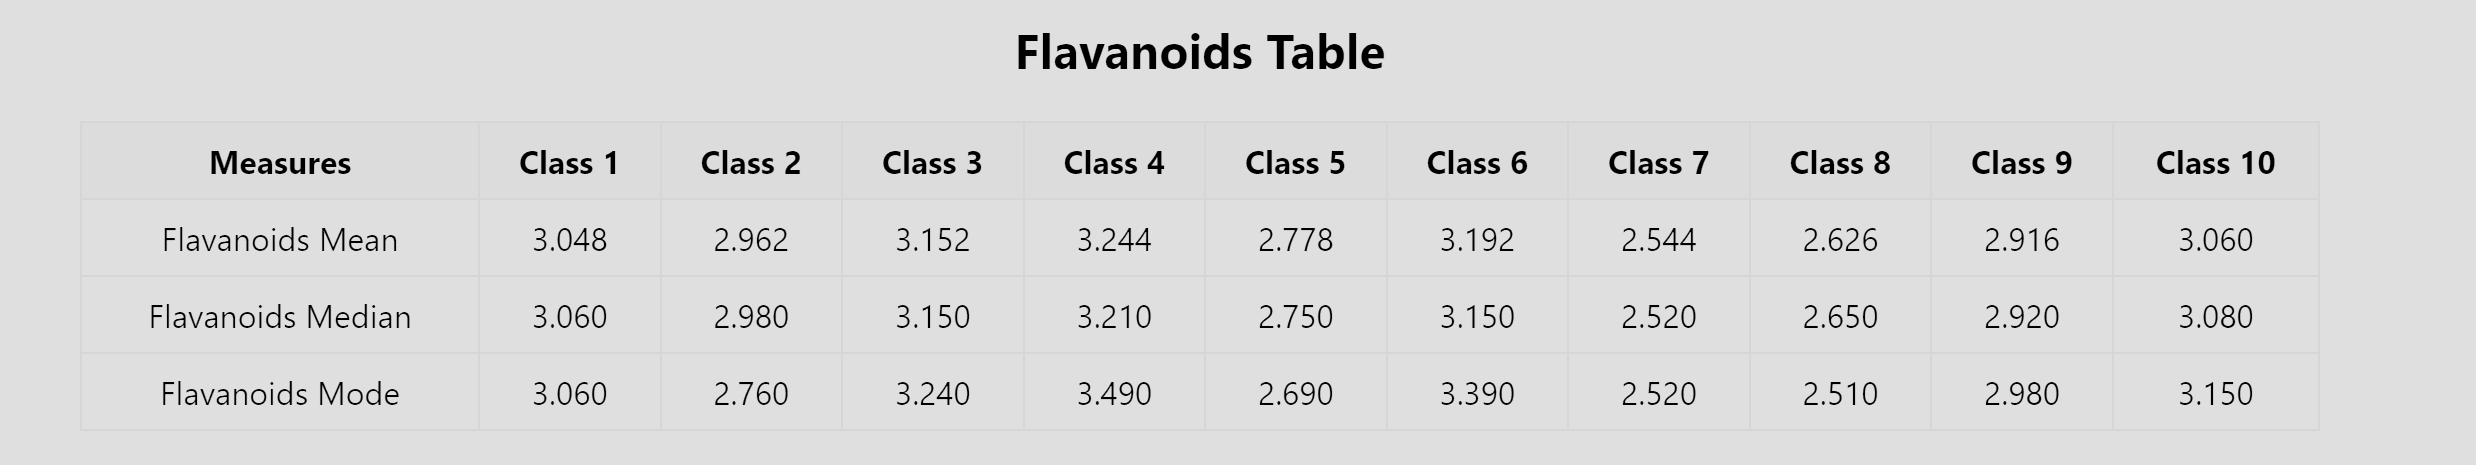
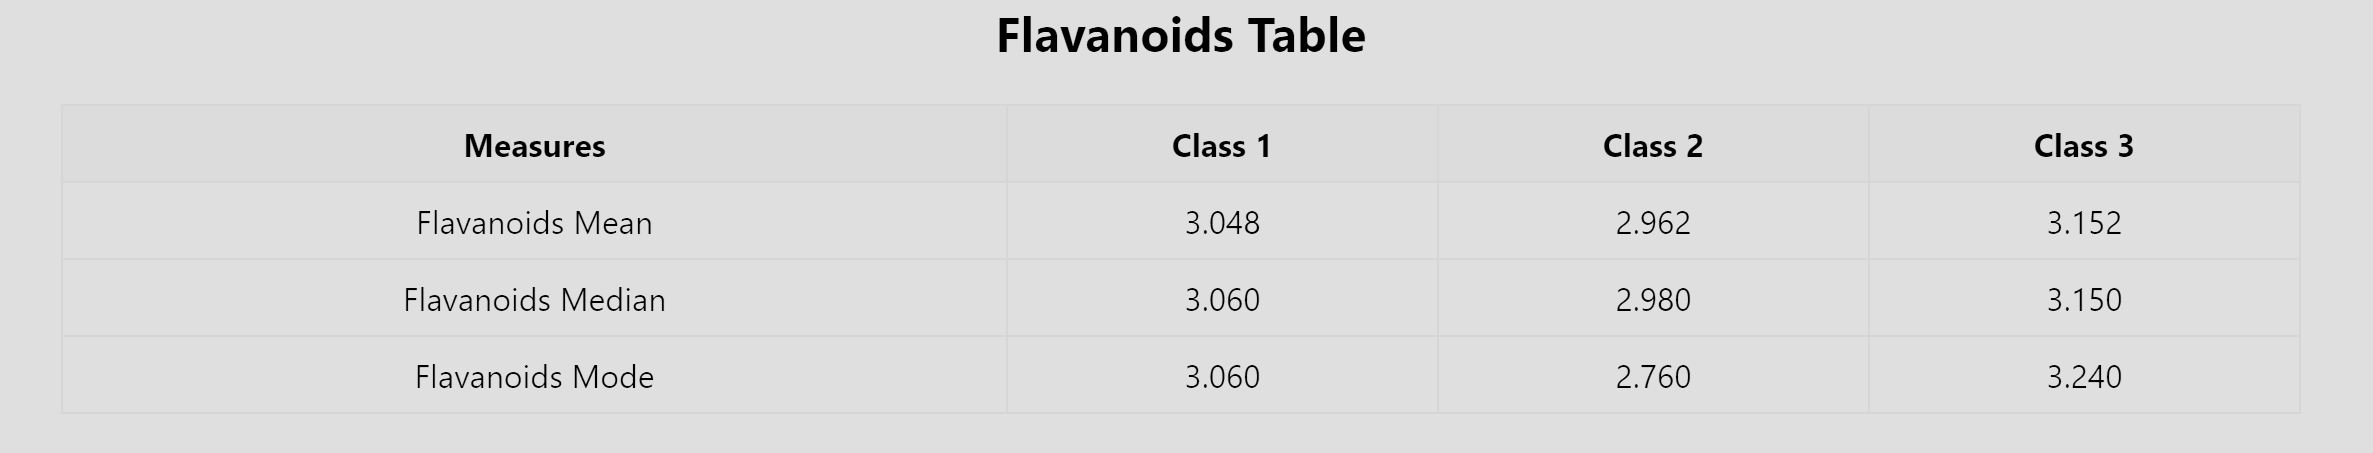
Adding all changes to wine assignment

diff --git a/src/data.js b/src/data.js
@@ -50,123 +50,123 @@ export const wineData = [
     "OD": 3.17,
     "Proline": 1185
   },
-  {
-    "id": "4",
-    "Wine": 4,
-    "Alcohol": 14.37,
-    "Malic.acid": 1.95,
-    "Ash": [2.5, 2.87, 2.45, 2.45, 2.61],
-    "Acl": 16.8,
-    "Mg": [113, 118, 112, 96, 121],
-    "Phenols": 3.85,
-    "Flavanoids": [3.49, 3.02, 3.21, 3.15, 3.35],
-    "Nonflavanoid.phenols": 0.24,
-    "Proanth": 2.18,
-    "Color.int": 7.8,
-    "Hue": [0.86, 1.04, 1.05, 1.02, 1.06],
-    "OD": 3.45,
-    "Proline": 1480
-  },
-  {
-    "id": "5",
-    "Wine": 5,
-    "Alcohol": 13.24,
-    "Malic.acid": 2.59,
-    "Ash": [2.87, 2.45, 2.45, 2.61, 2.17],
-    "Acl": 21,
-    "Mg": [118, 112, 96, 121, 97],
-    "Phenols": 2.8,
-    "Flavanoids": [2.69, 2.82, 2.95, 2.75, 2.68],
-    "Nonflavanoid.phenols": 0.39,
-    "Proanth": 1.82,
-    "Color.int": 4.32,
-    "Hue": [1.04, 1.05, 1.02, 1.06, 1.08],
-    "OD": 2.93,
-    "Proline": 735
-  },
-  {
-    "id": "6",
-    "Wine": 6,
-    "Alcohol": 14.2,
-    "Malic.acid": 1.76,
-    "Ash": [2.45, 2.87, 2.45, 2.61, 2.17],
-    "Acl": 15.2,
-    "Mg": [112, 96, 121, 97, 98],
-    "Phenols": 3.27,
-    "Flavanoids": [3.39, 3.2, 3.15, 3.1, 3.12],
-    "Nonflavanoid.phenols": 0.34,
-    "Proanth": 1.97,
-    "Color.int": 6.75,
-    "Hue": [1.05, 1.02, 3.58, 3.58, 3.55],
-    "OD": 2.85,
-    "Proline": 1450
-  },
-  {
-    "id": "7",
-    "Wine": 7,
-    "Alcohol": 14.39,
-    "Malic.acid": 1.87,
-    "Ash": [2.45, 2.61, 2.17, 1.71, 2.45],
-    "Acl": 14.6,
-    "Mg": [96, 121, 97, 98, 97],
-    "Phenols": 2.5,
-    "Flavanoids": [2.52, 2.68, 2.49, 2.55, 2.48],
-    "Nonflavanoid.phenols": 0.3,
-    "Proanth": 1.98,
-    "Color.int": 5.25,
-    "Hue": [1.02, 3.58, 3.58, 3.55, 3.58],
-    "OD": 3.58,
-    "Proline": 1290
-  },
-  {
-    "id": "8",
-    "Wine": 8,
-    "Alcohol": 14.06,
-    "Malic.acid": 2.15,
-    "Ash": [2.61, 2.17, 1.71, 2.43, 2.14],
-    "Acl": 17.6,
-    "Mg": [121, 97, 98, 97, 100],
-    "Phenols": 2.6,
-    "Flavanoids": [2.51, 2.58, 2.67, 2.72, 2.65],
-    "Nonflavanoid.phenols": 0.31,
-    "Proanth": 1.25,
-    "Color.int": 5.05,
-    "Hue": [1.06, 1.08, 1.01, 1.05, 1.03],
-    "OD": 3.58,
-    "Proline": 1295
-  },
-  {
-    "id": "9",
-    "Wine": 9,
-    "Alcohol": 14.83,
-    "Malic.acid": 1.64,
-    "Ash": [2.17, 1.71, 2.43, 2.14, 2.67],
-    "Acl": 14,
-    "Mg": [97, 98, 97, 100, 101],
-    "Phenols": 2.8,
-    "Flavanoids": [2.98, 2.92, 3.05, 2.88, 2.75],
-    "Nonflavanoid.phenols": 0.29,
-    "Proanth": 1.98,
-    "Color.int": 5.2,
-    "Hue": [1.08, 1.01, 3.55, 3.55, 3.55],
-    "OD": 2.85,
-    "Proline": 1045
-  },
-  {
-    "id": "10",
-    "Wine": 10,
-    "Alcohol": 13.86,
-    "Malic.acid": 1.35,
-    "Ash": [2.27, 2.43, 2.14, 2.67, 2.5],
-    "Acl": 16,
-    "Mg": [98, 97, 100, 101, 113],
-    "Phenols": 2.98,
-    "Flavanoids": [3.15, 3.08, 2.95, 3.02, 3.1],
-    "Nonflavanoid.phenols": 0.22,
-    "Proanth": 1.85,
-    "Color.int": 7.22,
-    "Hue": [1.01, 3.55, 3.55, 3.55, 3.55],
-    "OD": 3.55,
-    "Proline": 1045
-  }
+  // {
+  //   "id": "4",
+  //   "Wine": 4,
+  //   "Alcohol": 14.37,
+  //   "Malic.acid": 1.95,
+  //   "Ash": [2.5, 2.87, 2.45, 2.45, 2.61],
+  //   "Acl": 16.8,
+  //   "Mg": [113, 118, 112, 96, 121],
+  //   "Phenols": 3.85,
+  //   "Flavanoids": [3.49, 3.02, 3.21, 3.15, 3.35],
+  //   "Nonflavanoid.phenols": 0.24,
+  //   "Proanth": 2.18,
+  //   "Color.int": 7.8,
+  //   "Hue": [0.86, 1.04, 1.05, 1.02, 1.06],
+  //   "OD": 3.45,
+  //   "Proline": 1480
+  // },
+  // {
+  //   "id": "5",
+  //   "Wine": 5,
+  //   "Alcohol": 13.24,
+  //   "Malic.acid": 2.59,
+  //   "Ash": [2.87, 2.45, 2.45, 2.61, 2.17],
+  //   "Acl": 21,
+  //   "Mg": [118, 112, 96, 121, 97],
+  //   "Phenols": 2.8,
+  //   "Flavanoids": [2.69, 2.82, 2.95, 2.75, 2.68],
+  //   "Nonflavanoid.phenols": 0.39,
+  //   "Proanth": 1.82,
+  //   "Color.int": 4.32,
+  //   "Hue": [1.04, 1.05, 1.02, 1.06, 1.08],
+  //   "OD": 2.93,
+  //   "Proline": 735
+  // },
+  // {
+  //   "id": "6",
+  //   "Wine": 6,
+  //   "Alcohol": 14.2,
+  //   "Malic.acid": 1.76,
+  //   "Ash": [2.45, 2.87, 2.45, 2.61, 2.17],
+  //   "Acl": 15.2,
+  //   "Mg": [112, 96, 121, 97, 98],
+  //   "Phenols": 3.27,
+  //   "Flavanoids": [3.39, 3.2, 3.15, 3.1, 3.12],
+  //   "Nonflavanoid.phenols": 0.34,
+  //   "Proanth": 1.97,
+  //   "Color.int": 6.75,
+  //   "Hue": [1.05, 1.02, 3.58, 3.58, 3.55],
+  //   "OD": 2.85,
+  //   "Proline": 1450
+  // },
+  // {
+  //   "id": "7",
+  //   "Wine": 7,
+  //   "Alcohol": 14.39,
+  //   "Malic.acid": 1.87,
+  //   "Ash": [2.45, 2.61, 2.17, 1.71, 2.45],
+  //   "Acl": 14.6,
+  //   "Mg": [96, 121, 97, 98, 97],
+  //   "Phenols": 2.5,
+  //   "Flavanoids": [2.52, 2.68, 2.49, 2.55, 2.48],
+  //   "Nonflavanoid.phenols": 0.3,
+  //   "Proanth": 1.98,
+  //   "Color.int": 5.25,
+  //   "Hue": [1.02, 3.58, 3.58, 3.55, 3.58],
+  //   "OD": 3.58,
+  //   "Proline": 1290
+  // },
+  // {
+  //   "id": "8",
+  //   "Wine": 8,
+  //   "Alcohol": 14.06,
+  //   "Malic.acid": 2.15,
+  //   "Ash": [2.61, 2.17, 1.71, 2.43, 2.14],
+  //   "Acl": 17.6,
+  //   "Mg": [121, 97, 98, 97, 100],
+  //   "Phenols": 2.6,
+  //   "Flavanoids": [2.51, 2.58, 2.67, 2.72, 2.65],
+  //   "Nonflavanoid.phenols": 0.31,
+  //   "Proanth": 1.25,
+  //   "Color.int": 5.05,
+  //   "Hue": [1.06, 1.08, 1.01, 1.05, 1.03],
+  //   "OD": 3.58,
+  //   "Proline": 1295
+  // },
+  // {
+  //   "id": "9",
+  //   "Wine": 9,
+  //   "Alcohol": 14.83,
+  //   "Malic.acid": 1.64,
+  //   "Ash": [2.17, 1.71, 2.43, 2.14, 2.67],
+  //   "Acl": 14,
+  //   "Mg": [97, 98, 97, 100, 101],
+  //   "Phenols": 2.8,
+  //   "Flavanoids": [2.98, 2.92, 3.05, 2.88, 2.75],
+  //   "Nonflavanoid.phenols": 0.29,
+  //   "Proanth": 1.98,
+  //   "Color.int": 5.2,
+  //   "Hue": [1.08, 1.01, 3.55, 3.55, 3.55],
+  //   "OD": 2.85,
+  //   "Proline": 1045
+  // },
+  // {
+  //   "id": "10",
+  //   "Wine": 10,
+  //   "Alcohol": 13.86,
+  //   "Malic.acid": 1.35,
+  //   "Ash": [2.27, 2.43, 2.14, 2.67, 2.5],
+  //   "Acl": 16,
+  //   "Mg": [98, 97, 100, 101, 113],
+  //   "Phenols": 2.98,
+  //   "Flavanoids": [3.15, 3.08, 2.95, 3.02, 3.1],
+  //   "Nonflavanoid.phenols": 0.22,
+  //   "Proanth": 1.85,
+  //   "Color.int": 7.22,
+  //   "Hue": [1.01, 3.55, 3.55, 3.55, 3.55],
+  //   "OD": 3.55,
+  //   "Proline": 1045
+  // }
 ];
